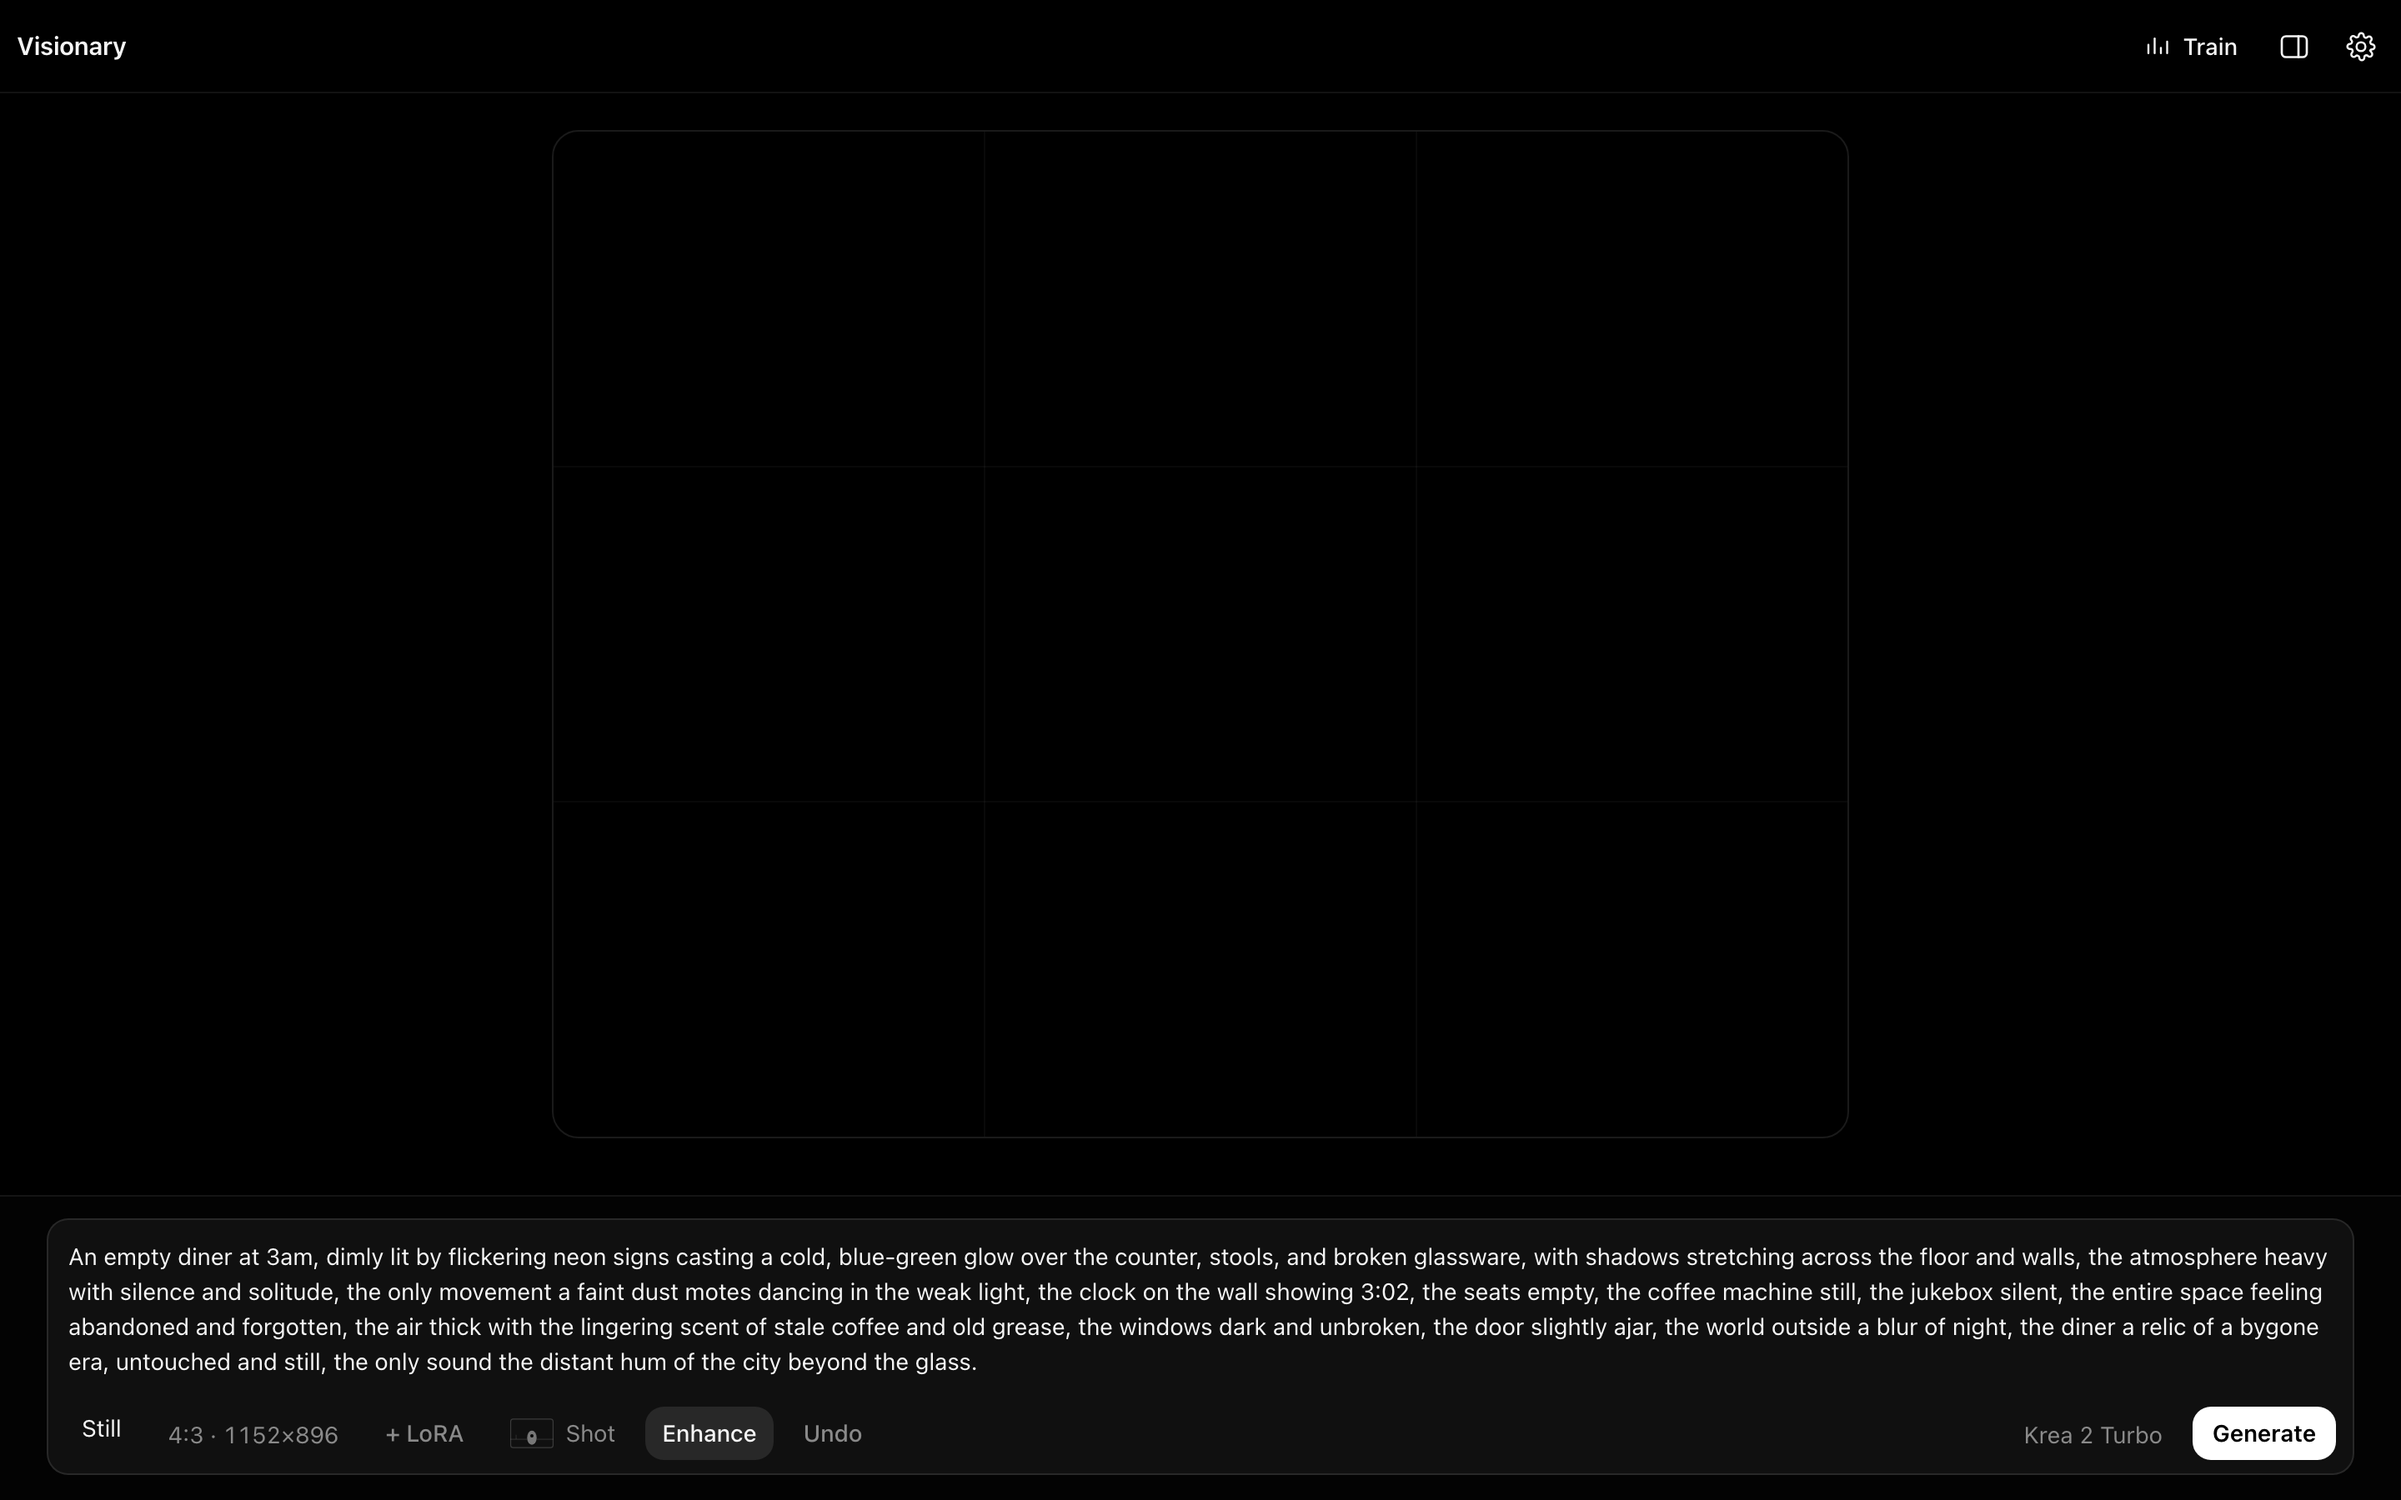
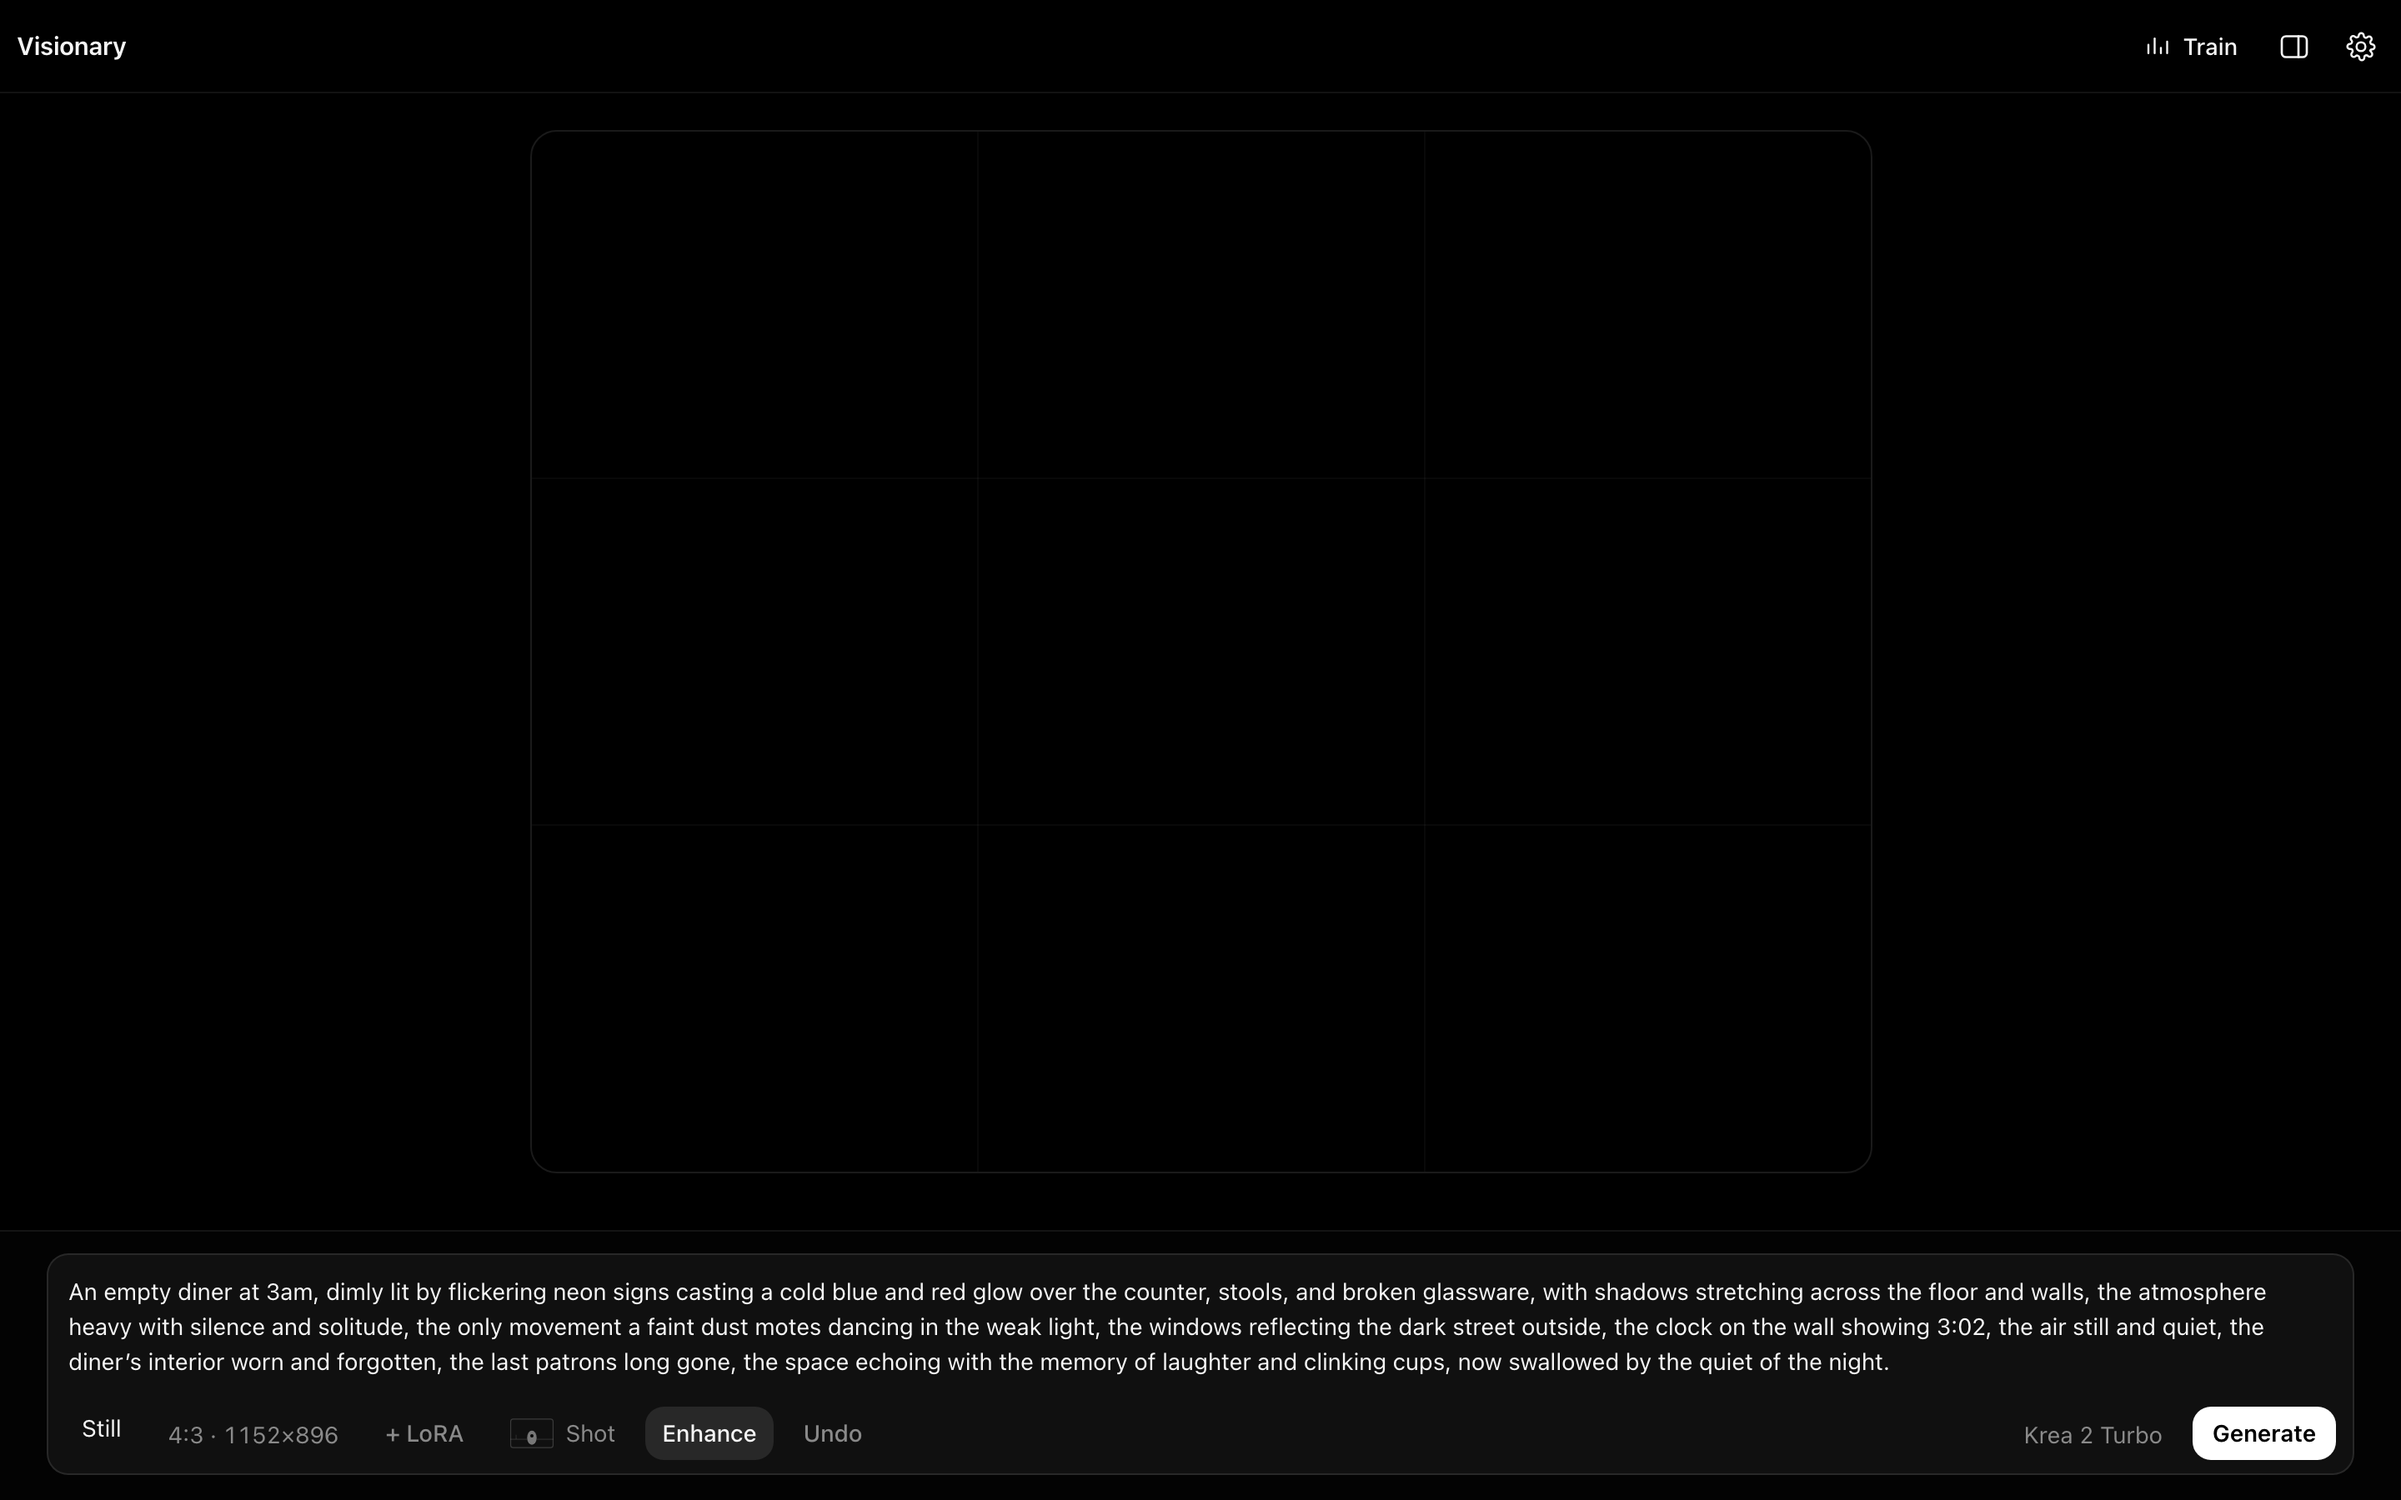
Say what the trainer can do now, and shoot the hero in the register it is for
Two omissions and one bad picture.

**Duplicates were undocumented and they are not cosmetic.** The trainer
repeats every image the same number of times, so a picture present three
times is trained three times as hard, and the symptom — everything comes
out in that room — never points back at the folder. The README now
carries the two classes, why the second is not a softer first, and the
five-tier scale that was built and rejected: 813 pairs flagged against 9,
on 266,815 pairs of a 731-image editorial set.

**And you can train several LoRAs at once**, which nothing said. A run was
a page with Cancel on it, so the way to reach the second thing you wanted
to train was to wait for the first. Each run loads its own weights and
writes its own scratch, which is why the trainer is the one GPU class
here with no single-container pin — that absence is the feature, and a
reader deserves to know it is there.

**The hero was an empty diner**, which is a scene any model can draw and
says nothing about what this is for. It is a calla lily against a
collarbone under a single hard light now — Mapplethorpe's register, which
is the company this tool is meant to keep. `shoot_ui.mjs` carries a
prompt per shot rather than one for both: the hero is written and
renders, while the Enhance frame starts from four words and stops before
Generate, because an empty canvas is correct there — the event is in the
text.

Changed region(s): [[0.0312, 0.8089, 0.9688, 0.9333]]

diff --git a/README.md b/README.md
@@ -5,7 +5,7 @@ Train a LoRA on your photographs, generate stills with it, and animate any of
 them into a clip — in one interface, on one URL, with nothing to keep alive
 between sessions.
 
-![A fragment, enhanced into a prompt, and the picture it produced](docs/generate.png)
+![A written prompt and the picture it produced, on a canvas that holds the screen](docs/generate.png)
 
 It is a real interface, not a form in front of a script. The canvas is the
 largest thing on screen at every moment, because the picture is the reason the
@@ -226,6 +226,44 @@ stock model declines on photographs of real people often enough to matter, and
 what comes back is a fluent sentence that would land in a `.txt` sidecar and
 train. Declines are detected and never written, and the second entry is the
 same checkpoint with the refusal direction removed.
+
+**A set arrives with copies in it more often than not, and copies are not
+neutral.** The trainer repeats every image the same number of times, so a
+picture present three times is trained three times as hard — and the symptom
+(*everything comes out in that room*) never points back at the folder it came
+from. So a set is scanned and grouped before you train on it.
+
+Two classes, and the second is not a softer first. A **duplicate** is one
+picture stored more than once, so its group arrives with a keeper already chosen
+and everything else marked to go; the gesture is *promotion* — touch a marked
+image to keep it too — and the last keeper cannot be demoted, so no sequence of
+clicks empties a group. A **similar** pair is two photographs that merely look
+alike, which on a training set is usually a burst and usually all worth keeping,
+so it is shown and nothing in it is ever preselected.
+
+A five-tier confidence scale was built first and is the thing to not rebuild.
+Measured on a 731-image editorial set — 266,815 pairs — the tiers flagged 813
+and the two classes flag 9. Worse, it demoted same-size same-format pairs to
+"possible", which is where most real duplicates live, so the keeper flow never
+ran on its own case. Both hashes have to agree now: edge gradients and
+low-frequency energy fail independently, so an AND is far tighter than either
+alone and a re-grade of the same photograph still reads as a copy.
+
+**And a training run is a card, not a page.** Starting one used to take the
+Train screen over, with Cancel as its only control, so the way to reach the
+second thing you wanted to train was to wait for the first. Nothing in the
+backend ever required that — each run loads its own weights, writes its own
+scratch and its own output folder, then goes away — which is why the trainer is
+the one GPU class here with no single-container pin. That absence is the
+feature: **train several LoRAs at once**, on separate cards, and leave.
+
+Status is derived on every read and never stored. It comes off the job record's
+heartbeat, which is the difference between a card that says "training" forever
+because a container was killed mid-step and one that says what actually
+happened. Making a set also stopped being the first thing Train asks of you:
+creating a session is a modal over the board, new sets are their own door, and
+choosing "create a new one" from the dataset dropdown saves the card as a draft
+rather than spending the parameters you had already typed.
 
 ---
 
